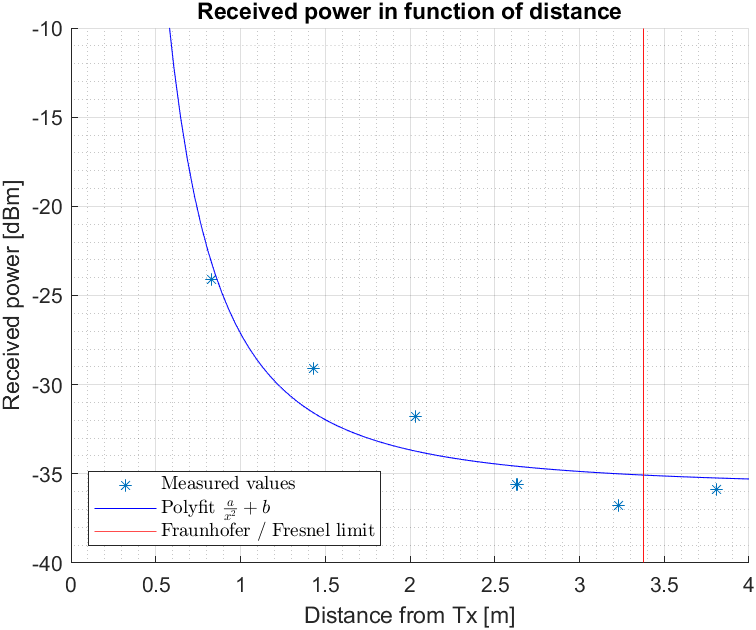
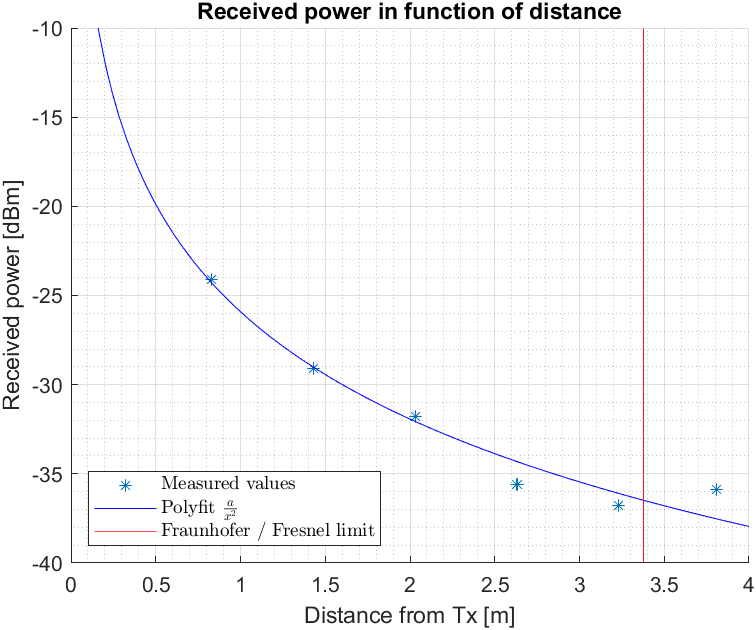
update free space distance plot

diff --git a/Propagation_Models.m b/Propagation_Models.m
@@ -13,8 +13,8 @@ d = [3.81	 3.23    2.63    2.03    1.43    0.83]; % [m]
 P = [-35.9  -36.8   -35.6   -31.8   -29.1   -24.1]; % [dBm]
 
 opts = optimset('Display','off');
-fun = @(a,d) a(1)./d.^2 + a(2);
-a0 = [10 -10];
+fun = @(a,d) 10*log10( a./d.^2 );
+a0 = 10;
 coeff = lsqcurvefit(fun,a0,d,P,[],[], opts);
 d1 = linspace(floor(min(d)),ceil(max(d)));
 fit = fun(coeff,d1);
@@ -27,7 +27,7 @@ xlabel('Distance from Tx [m]'); ylabel('Received power [dBm]')
 grid on, grid minor
 axis([0 4 -40 -10])
 title('Received power in function of distance')
-legend('Measured values', 'Polyfit $\frac{a}{x^2} + b $','Fraunhofer / Fresnel limit',...
+legend('Measured values', 'Polyfit $\frac{a}{x^2}$','Fraunhofer / Fresnel limit',...
        'Location','SouthWest','Interpreter','Latex')
 
 exportgraphics(gcf,'./Images/FreeSpace_Distance.png')
